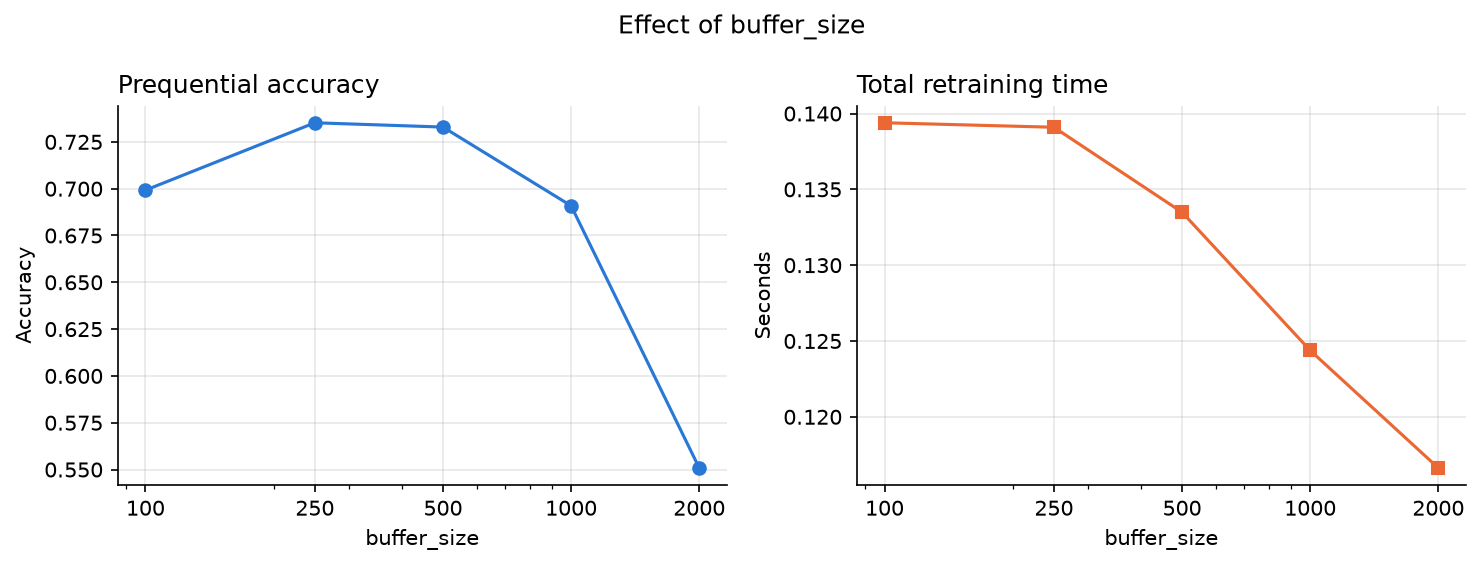
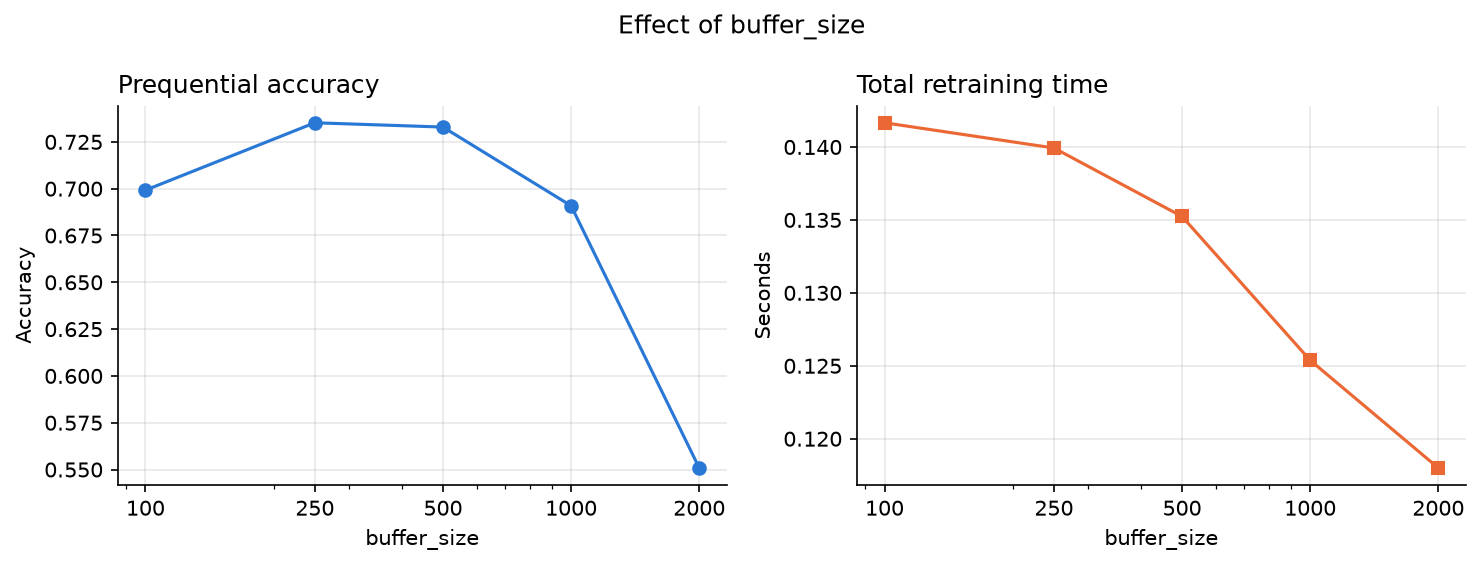
Rerun the benchmark after the overflow fixes

diff --git a/benchmark/stream_results/loop_vs_vectorised.md b/benchmark/stream_results/loop_vs_vectorised.md
@@ -1,13 +1,15 @@
+Run 2026-11-13T07:15:09Z · commit 7c5a065 · Darwin arm64, 8 CPUs · Python 3.14.6, NumPy 2.5.4
+
 | operation | n | loop_best_s | vectorised_best_s | speedup | loop_mean_s | vectorised_mean_s |
 |---|---|---|---|---|---|---|
-| best split (one node) | 250 | 0.03814 | 0.000311 | 122.6 | 0.03835 | 0.0003309 |
-| best split (one node) | 500 | 0.08547 | 0.0005916 | 144.5 | 0.08657 | 0.000611 |
-| best split (one node) | 1000 | 0.2103 | 0.001128 | 186.5 | 0.2106 | 0.001153 |
-| best split (one node) | 2000 | 0.5726 | 0.002305 | 248.4 | 0.5776 | 0.002341 |
-| tree fit (depth 6) | 500 | 0.3934 | 0.005483 | 71.74 | 0.3935 | 0.005539 |
-| tree fit (depth 6) | 1000 | 0.9256 | 0.008985 | 103 | 0.9293 | 0.009036 |
-| tree fit (depth 6) | 2000 | 2.355 | 0.01697 | 138.8 | 2.359 | 0.01706 |
-| tree predict | 20000 | 0.1965 | 0.00354 | 55.52 | 0.1976 | 0.003584 |
-| running mean/var (40 chunks) | 20000 | 0.03876 | 0.0038 | 10.2 | 0.03904 | 0.003821 |
-| confusion matrix | 200000 | 0.07306 | 0.006947 | 10.52 | 0.07315 | 0.007014 |
-| stream run, buffer 500 | 3000 | 1.937 | 0.07922 | 24.45 | 1.937 | 0.07981 |
+| best split (one node) | 250 | 0.04648 | 0.0003133 | 148.4 | 0.04967 | 0.0003551 |
+| best split (one node) | 500 | 0.09036 | 0.0005635 | 160.4 | 0.091 | 0.0006193 |
+| best split (one node) | 1000 | 0.221 | 0.001136 | 194.5 | 0.2331 | 0.001158 |
+| best split (one node) | 2000 | 0.5947 | 0.002311 | 257.4 | 0.5965 | 0.00236 |
+| tree fit (depth 6) | 500 | 0.4165 | 0.005515 | 75.53 | 0.4177 | 0.005565 |
+| tree fit (depth 6) | 1000 | 0.9798 | 0.009071 | 108 | 0.991 | 0.009125 |
+| tree fit (depth 6) | 2000 | 2.473 | 0.01709 | 144.7 | 2.475 | 0.01719 |
+| tree predict | 20000 | 0.1919 | 0.003514 | 54.62 | 0.1929 | 0.003557 |
+| running mean/var (40 chunks) | 20000 | 0.0389 | 0.005047 | 7.708 | 0.03948 | 0.005108 |
+| confusion matrix | 200000 | 0.07276 | 0.007003 | 10.39 | 0.07324 | 0.007065 |
+| stream run, buffer 500 | 3000 | 2.066 | 0.08039 | 25.7 | 2.066 | 0.0809 |

diff --git a/benchmark/stream_results/buffer_size.md b/benchmark/stream_results/buffer_size.md
@@ -1,7 +1,9 @@
+Run 2026-11-13T07:15:09Z · commit 7c5a065 · Darwin arm64, 8 CPUs · Python 3.14.6, NumPy 2.5.4
+
 | buffer_size | accuracy_mean | accuracy_std | n_retrains | retrain_seconds | peak_memory_kib |
 |---|---|---|---|---|---|
-| 100 | 0.6992 | 0.005346 | 60 | 0.1394 | 1.991 |
-| 250 | 0.7352 | 0.003385 | 20 | 0.1391 | 19.77 |
-| 500 | 0.7329 | 0.005734 | 12 | 0.1335 | 36.54 |
-| 1000 | 0.6909 | 0.005756 | 6 | 0.1244 | 76.62 |
-| 2000 | 0.5508 | 0.004195 | 3 | 0.1166 | 154.9 |
+| 100 | 0.6992 | 0.005346 | 60 | 0.1417 | 1.991 |
+| 250 | 0.7352 | 0.003385 | 20 | 0.1399 | 19.77 |
+| 500 | 0.7329 | 0.005734 | 12 | 0.1352 | 36.54 |
+| 1000 | 0.6909 | 0.005756 | 6 | 0.1254 | 76.62 |
+| 2000 | 0.5508 | 0.004195 | 3 | 0.118 | 154.9 |

diff --git a/benchmark/stream_results/strategies.md b/benchmark/stream_results/strategies.md
@@ -1,3 +1,5 @@
+Run 2026-11-13T07:15:09Z · commit 7c5a065 · Darwin arm64, 8 CPUs · Python 3.14.6, NumPy 2.5.4
+
 | strategy | accuracy_mean | accuracy_std | drift_retrains_seed42 |
 |---|---|---|---|
 | train once | 0.5478 | 0.0113 | 0 |
